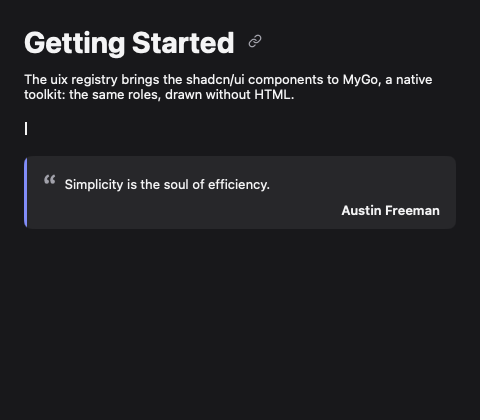
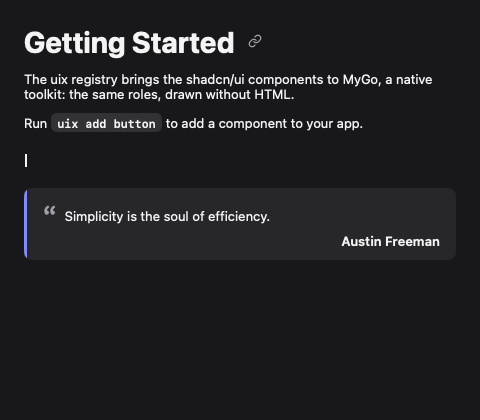
components: add the inline code chip, the last missing expansion
The user asked to check the set against the shadcn-ui-expansions
repository itself. Its components/ui holds the fifteen documented
components, already ported or covered, and two helpers that are not
components to port: steppers is the docs site's own scaffolding (it
reads files and renders code blocks), and theme-provider wraps
next-themes. One real component was missing: inline code, a code chip
in the prose with a muted face and the monospace font, which this adds
with tests, a place in the writing example, and the registry rebuilt.

diff --git a/examples/writing/view/view.go b/examples/writing/view/view.go
@@ -15,6 +15,7 @@ import (
 	tokens "github.com/smallnest/uix/components/base"
 	"github.com/smallnest/uix/components/blockquote"
 	"github.com/smallnest/uix/components/headingwithanchor"
+	"github.com/smallnest/uix/components/inlinecode"
 	"github.com/smallnest/uix/components/typewriter"
 )
 
@@ -52,6 +53,11 @@ func WritingView(c *ui.Context) {
 			OnAnchor: func() { State.Copied = "uix#getting-started" },
 		})
 		ui.Text(c, "The uix registry brings the shadcn/ui components to MyGo, a native toolkit: the same roles, drawn without HTML.")
+		ui.Row(c).FillWidth().Wrap().AlignItems(ui.Center).Gap(4).Children(func() {
+			ui.Text(c, "Run")
+			inlinecode.InlineCode(c, inlinecode.Props{Text: "uix add button"})
+			ui.Text(c, "to add a component to your app.")
+		})
 		ui.Column(c).FillWidth().Padding(t.Space(2), 0).Children(func() {
 			typewriter.Typewriter(c, typewriter.Props{
 				Text:  "Build native apps with uix.",

diff --git a/components/inlinecode/inlinecode.go b/components/inlinecode/inlinecode.go
@@ -1,0 +1,26 @@
+// Package inlinecode provides the Inline Code expansion of shadcn/ui: a
+// code chip in the prose, as `uix add` is written inside a sentence,
+// with a muted face and the monospace font.
+//
+//	inlinecode.InlineCode(c, inlinecode.Props{Text: "uix add button"})
+package inlinecode
+
+import "github.com/egoist/mygo/ui"
+
+// Props describes the code chip to draw.
+type Props struct {
+	// Text is the code, as written in the sentence around it.
+	Text string
+}
+
+// InlineCode draws the code chip and returns it, so a view can chain
+// more calls on it.
+func InlineCode(c *ui.Context, p Props) ui.Element {
+	t := c.Theme()
+	e := ui.Box(c).Padding(t.Space(0.75), t.Space(1.5)).Radius(t.Radius - 2).
+		Background(t.SurfaceHover)
+	e.Children(func() {
+		ui.Text(c, p.Text).Font("monospace").FontSize(t.FontSize * 0.875).FontWeight(600).SingleLine()
+	})
+	return e
+}

diff --git a/components/inlinecode/inlinecode_test.go b/components/inlinecode/inlinecode_test.go
@@ -1,0 +1,32 @@
+package inlinecode
+
+import (
+	"testing"
+
+	"github.com/egoist/mygo/ui"
+)
+
+func frame(p Props) func(c *ui.Context) {
+	return func(c *ui.Context) {
+		ui.Column(c).Fill().Padding(16).Children(func() {
+			InlineCode(c, p)
+		})
+	}
+}
+
+// TestRenders draws the code chip.
+func TestRenders(t *testing.T) {
+	tt := ui.NewTester(frame(Props{Text: "uix add button"}), 320, 100)
+	if !tt.HasText("uix add button") {
+		t.Fatalf("texts %q", tt.Texts())
+	}
+}
+
+// TestDarkMode draws the chip under the dark appearance too.
+func TestDarkMode(t *testing.T) {
+	tt := ui.NewTester(frame(Props{Text: "uix add button"}), 320, 100)
+	tt.SetDark(true)
+	if !tt.HasText("uix add button") {
+		t.Fatal("chip missing under dark mode")
+	}
+}

diff --git a/examples/writing/main_test.go b/examples/writing/main_test.go
@@ -21,6 +21,7 @@ func TestRenders(t *testing.T) {
 	tt := newTester(t)
 	for _, s := range []string{
 		"Getting Started",
+		"uix add button",
 		"Simplicity is the soul of efficiency.",
 		"Austin Freeman",
 	} {

diff --git a/README.md b/README.md
@@ -184,6 +184,7 @@ the app's home when it has no history.
 | `floatinglabelinput` | Field whose label sits inside it, and floats to the top border on focus or text |
 | `headingwithanchor` | Heading with a link button that copies the section's anchor to the clipboard |
 | `infinitescroll` | Scrolling list that loads the next page as its end comes near |
+| `inlinecode` | Code chip in the prose, with a muted face and the monospace font |
 | `interactivestepper` | Steps of a process, each reachable from its indicator, with Back and Next |
 | `loadingbutton` | Button that turns into a spinner while its work runs, and stops clicks |
 | `magicback` | Round back button that goes back, or home when there is no history |

diff --git a/examples/README.md b/examples/README.md
@@ -378,9 +378,9 @@ go run ./examples/preferences/cmd/snapshot   write preferences.png, preferences-
 
 The writing example shows the writing components of the shadcn/ui
 expansions together in a page of prose: the heading with its anchor, the
-typewriter and the block quote. Clicking the anchor copies
-"uix#getting-started" to the clipboard, and the typewriter types its
-line once.
+inline code chip, the typewriter and the block quote. Clicking the
+anchor copies "uix#getting-started" to the clipboard, and the typewriter
+types its line once.
 
 ```
 go run ./examples/writing                open the window
